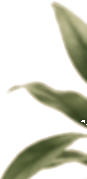
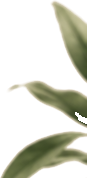
Mostra as plantas inteiras nos cantos da seção de bônus.

diff --git a/src/components/sections/product-section.tsx b/src/components/sections/product-section.tsx
@@ -29,15 +29,15 @@ export function ProductSection() {
         width={106}
         height={169}
         unoptimized
-        className="pointer-events-none absolute -top-1 -left-8 h-28 w-auto sm:-left-4 sm:h-40 lg:-left-2 lg:h-56"
+        className="pointer-events-none absolute top-0 left-0 h-44 w-auto sm:h-52 lg:h-64"
       />
       <Image
         src="/images/bonus/planta-base.png"
         alt=""
         width={87}
-        height={179}
+        height={178}
         unoptimized
-        className="pointer-events-none absolute -right-6 -bottom-2 h-28 w-auto sm:-right-2 sm:h-40 lg:right-0 lg:h-56"
+        className="pointer-events-none absolute right-0 bottom-0 h-44 w-auto sm:h-52 lg:h-64"
       />
 
       <div className="relative mx-auto max-w-2xl text-center">
